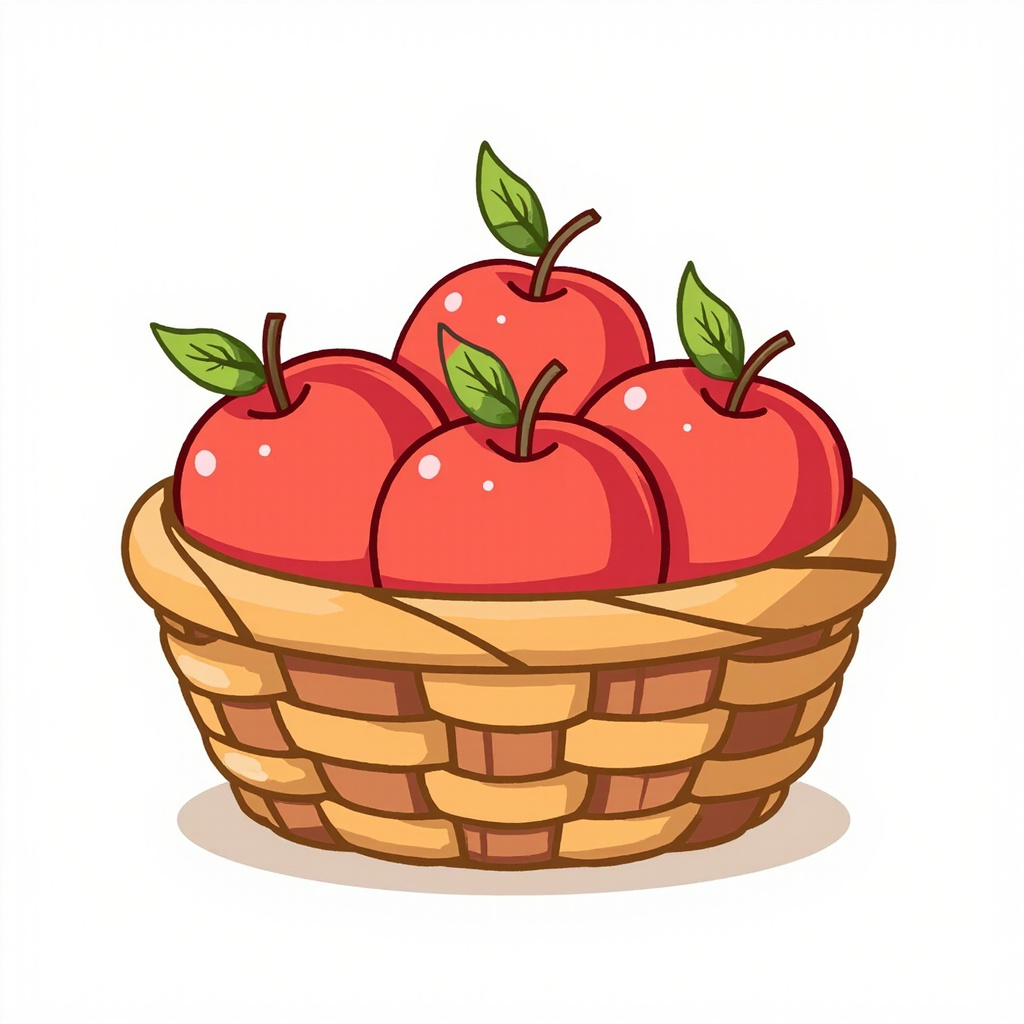
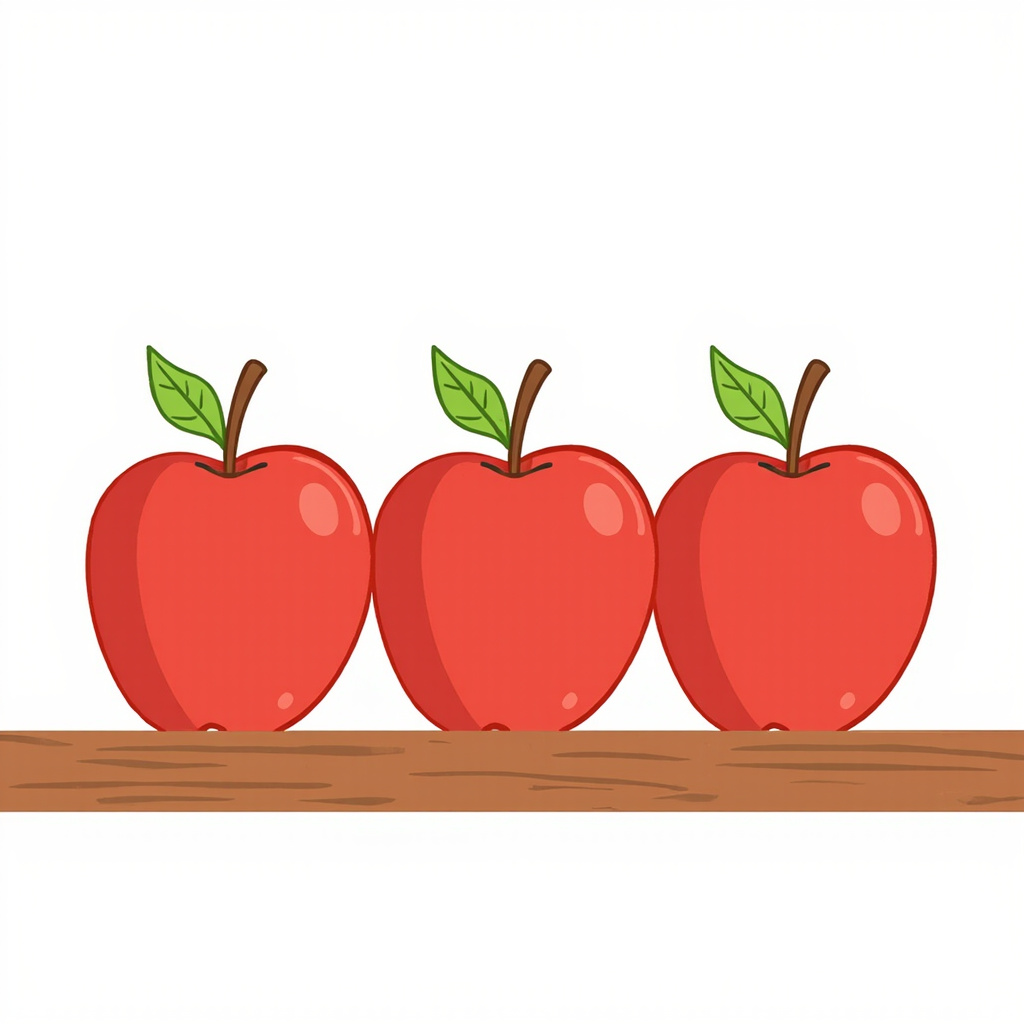
s_u1_08: regen with row layout (3 apples, was 4)

diff --git a/scripts/gen-images.py b/scripts/gen-images.py
@@ -195,7 +195,7 @@ SENTENCE_PROMPTS = {
     "s_u1_05": "a single small green tree with child pointing at it, cartoon",
     "s_u1_06": "six wooden sticks laid side by side, six sticks only, no labels, no numbers, no text, cartoon",
     "s_u1_07": "a cheerful boy raising his right hand high with open palm facing the camera, all five fingers fully extended and clearly visible including thumb index middle ring and pinky, big happy smile, cartoon",
-    "s_u1_08": "a wicker basket holding three red apples on top, three apples only, clean white background, no labels, no numbers, no text, cartoon",
+    "s_u1_08": "three red apples sitting side by side in a single row on a wooden table, three separated apples in a row not in a basket, three individual apples each with green stem and leaf, clean white background, no labels, no numbers, no text, cartoon",
 
     # Unit 2
     "s_u2_01": "a kid proudly showing a yellow pencil, cartoon",
